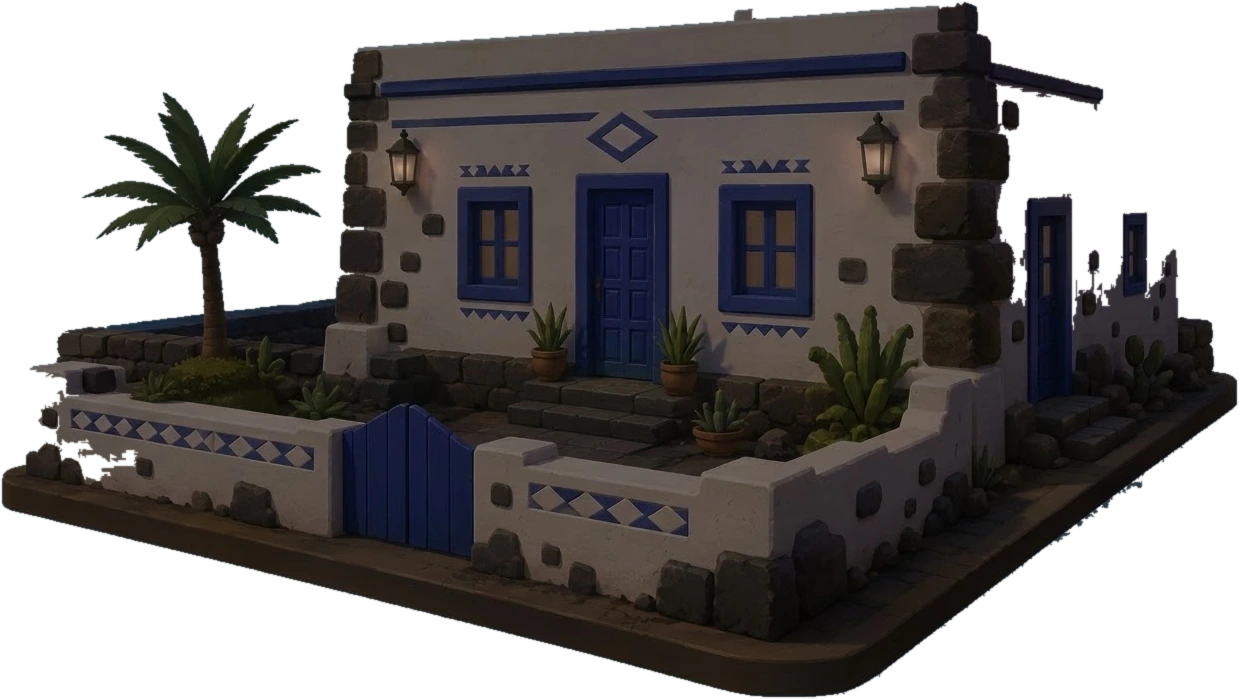
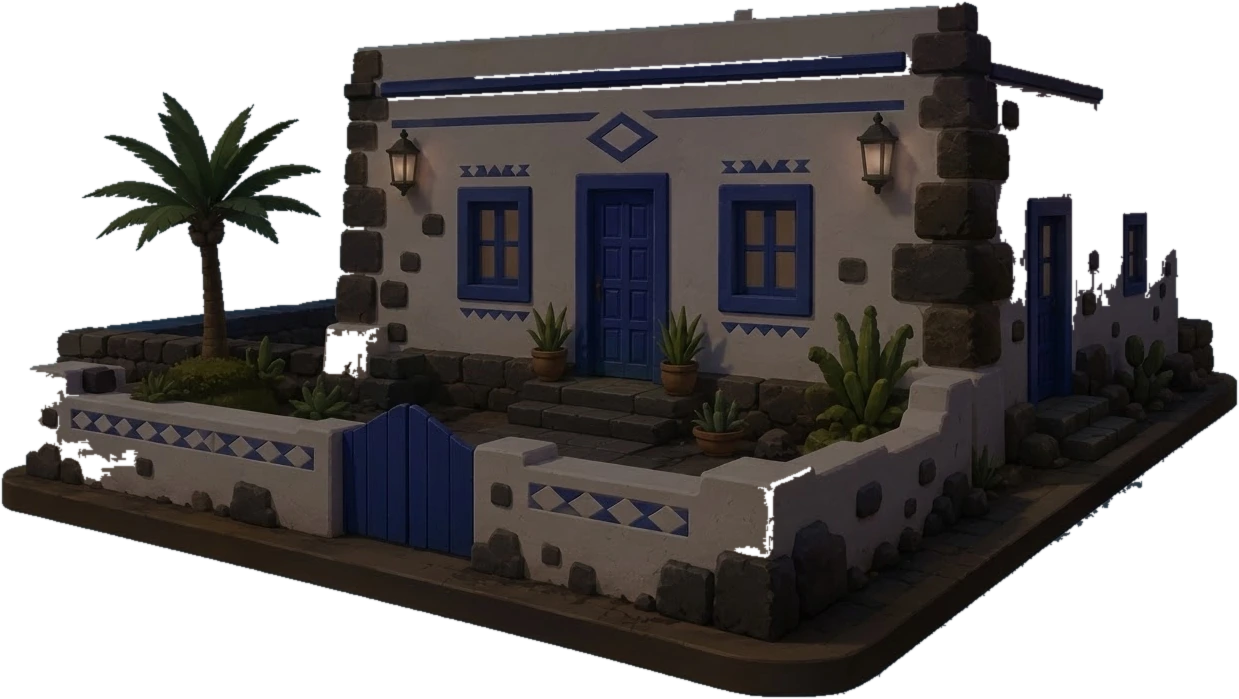
Stop filling the gap you can see the sky through
The pale patch stuck to the left of the house, between the palm and the
garden wall, was real background: sky visible through the gap those
pieces leave between them. Because it is enclosed on all four sides, a
plain hole fill took it for an interior hole and painted it in, welding a
piece of the old backdrop inside the silhouette.

A hole worth filling is a speck a few hundred pixels across, thrown up by
the threshold. Anything larger is somewhere you can see through, and it
stays transparent. Holes are now measured before they are filled.

Changed region(s): [[0.3067, 0.0601, 0.7361, 0.1502], [0.5827, 0.6609, 0.6747, 0.8112], [0.2454, 0.4506, 0.3067, 0.5408]]

diff --git a/design/casa-nueva/recortar.py b/design/casa-nueva/recortar.py
@@ -141,21 +141,37 @@ def mancha_mayor(mask: np.ndarray) -> np.ndarray:
     return etiqueta == mejor
 
 
-def rellenar_huecos(mask: np.ndarray) -> np.ndarray:
-    """Todo lo que no se alcance desde el borde por fuera, es interior."""
+def rellenar_huecos(mask: np.ndarray, limite: int = 600) -> np.ndarray:
+    """
+    Rellena SOLO los agujeros pequeños.
+
+    ⚠ AQUÍ ESTABA EL MANCHÓN PÁLIDO que se veía a la izquierda de la casa,
+    entre la palmera y el muro. Eso es fondo de verdad —se ve el cielo por el
+    hueco que dejan la palmera, la tapia y la fachada—, pero como queda
+    rodeado de casa por los cuatro lados, un relleno de huecos a secas lo toma
+    por interior y lo tapa. Resultado: un trozo del fondo viejo incrustado
+    dentro de la silueta, que sobre otro color canta.
+
+    Un agujero que hay que rellenar es una MOTA, cosa de unos cientos de
+    píxeles, que viene del ruido del umbral. Un hueco grande es un sitio por
+    donde se ve el fondo, y ese tiene que quedar transparente. Así que se
+    miden y solo se tapan los pequeños.
+    """
     alto, ancho = mask.shape
     fuera = np.zeros((alto, ancho), bool)
     pila = []
+
+    def sembrar(y, x):
+        if not mask[y, x] and not fuera[y, x]:
+            fuera[y, x] = True
+            pila.append((y, x))
+
     for x in range(ancho):
-        for y in (0, alto - 1):
-            if not mask[y, x] and not fuera[y, x]:
-                fuera[y, x] = True
-                pila.append((y, x))
+        sembrar(0, x)
+        sembrar(alto - 1, x)
     for y in range(alto):
-        for x in (0, ancho - 1):
-            if not mask[y, x] and not fuera[y, x]:
-                fuera[y, x] = True
-                pila.append((y, x))
+        sembrar(y, 0)
+        sembrar(y, ancho - 1)
     while pila:
         y, x = pila.pop()
         for dy, dx in ((1, 0), (-1, 0), (0, 1), (0, -1)):
@@ -163,7 +179,29 @@ def rellenar_huecos(mask: np.ndarray) -> np.ndarray:
             if 0 <= ny < alto and 0 <= nx < ancho and not mask[ny, nx] and not fuera[ny, nx]:
                 fuera[ny, nx] = True
                 pila.append((ny, nx))
-    return ~fuera
+
+    encerrado = ~mask & ~fuera
+    salida = mask.copy()
+    visto = np.zeros((alto, ancho), bool)
+    ys, xs = np.nonzero(encerrado)
+    for y0, x0 in zip(ys, xs):
+        if visto[y0, x0]:
+            continue
+        grupo = [(y0, x0)]
+        visto[y0, x0] = True
+        pila = [(y0, x0)]
+        while pila:
+            y, x = pila.pop()
+            for dy, dx in ((1, 0), (-1, 0), (0, 1), (0, -1)):
+                ny, nx = y + dy, x + dx
+                if 0 <= ny < alto and 0 <= nx < ancho and encerrado[ny, nx] and not visto[ny, nx]:
+                    visto[ny, nx] = True
+                    grupo.append((ny, nx))
+                    pila.append((ny, nx))
+        if len(grupo) <= limite:
+            for y, x in grupo:
+                salida[y, x] = True
+    return salida
 
 
 def recortar(entrada: Path, salida: Path, umbral: float = 26.0, abrir: bool = True, ancho_max: int = 1400):
